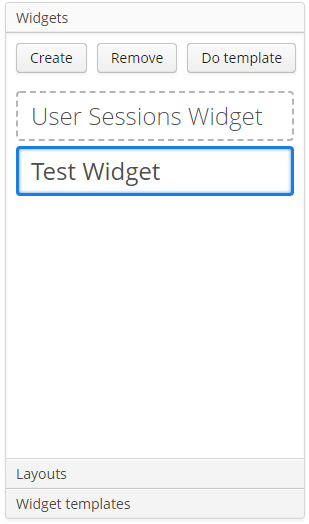
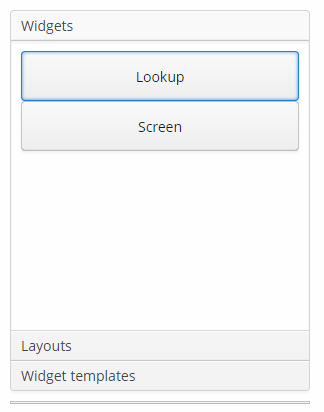
DASH-152 Create component documentation update 3.5. Dashboard Editor (will be updated again after fix of DASH-99)

Changed region(s): [[0.0, 0.0, 0.9903, 0.9903]]

diff --git a/README.ru.md b/README.ru.md
@@ -124,13 +124,17 @@ dependencies {
 - поля дашборда;
 - параметры дашборда;
 - палитра с виджетами и компоновками;
+- структура элементов редактируемого дашборда в виде дерева;
 - холст, где задается размещение элементов дашборда;
 - панель с кнопками.
 
 ### Поля дашборда
 
 - **Title** - название дашборда;
-- **Reference name** - уникальный идетификатор для более удобного поиска в базе данных;
+- **Code** - уникальный идетификатор для более удобного поиска в базе данных;
+- **Refresh period** - период времени в секундах, при котором дашборд будет обновляться;
+- **Assistant bean name** - имя класса вспомогательного Spring-бина, который можно создать для более тонкой настойки дашборда;
+- **Group** - группа дашборда;
 - **Is available for all users** - флаг, определяющий доступ пользователей к дашборду. Если установлено `false`, то просматривать и редактировать дашборд может только пользователь, его создавший. В противном случае, проматривать и редактировать дашборд могут все пользователи.
 
 ### Параметры дашборда
@@ -144,7 +148,7 @@ dependencies {
 
 #### Widgets
 
-Содержит контейнер, в который можно добавлять или удалять произвольный виджет.
+Содержит виджеты **Lookup** и **Screen**. Для того чтобы добавить виджет на холст, перетащите его из палитры, после чего откроется диалоговое окно редактирования виджета.
 Имеется возможность сделать виджет шаблоном. В этом случае он добавляется во вкладку **Widget Templates**. 
 
 ![palette-widgets](img/palette-widgets.png)
@@ -159,7 +163,13 @@ dependencies {
 
 Содержит контейнер, в котором находятся шаблоны виджетов из базы данных.
 
-![palette-layouts](img/palette-wiget-templates.png)
+![palette-widget-templates](img/palette-widget-templates.png)
+
+#### 3.5.3.4. Текущая компоновка
+
+Отображает текущую структуру дашборда в виде дерева. Корневой элемент **Root** присутствует по умолчанию и не может быть удален.
+
+![palette-tree](img/palette-tree.png)
 
 ### Холст
 

diff --git a/README.md b/README.md
@@ -128,13 +128,17 @@ Dashboard Editor contains 5 areas:
 - the dashboard fields;
 - the dashboard parameters;
 - the palette with widgets and layouts;
+- the tree representation of the edited dashboard structure
 - the canvas  where the position of dashboard elements (widgets and layouts) is specified;
 - the buttons panel.
 
 ### 3.5.1. Dashboard Fields
 
-- **Title** - a name of the dashboard;
-- **Reference name** - a unique identifier for a more convenient search in a database;
+- **Title** - the name of the dashboard;
+- **Code** - the unique identifier for a more convenient search in a database;
+- **Refresh period** - the time period in seconds for refresh a dashboard UI;
+- **Assistant bean name** - an optional reference to a Spring bean class that should be used for customizing the dashboard. 
+- **Group** - the dashboard group;
 - **Is available for all users** - a flag which defines the user access to the dashboard. If set to `false`, then only the user who created the dashboard can view and edit it. Otherwise, all users can view and edit the dashboard.
 
 ### 3.5.2. Dashboard Parameters
@@ -147,7 +151,7 @@ It is a container with 3 collapsible tabs. Each tab contains a container with co
 
 #### 3.5.3.1 Widgets
 
-Contains a container in which you can add or exclude any widget. It is possible to make the widget a template (in this case, it is added to the tab **Widget Templates**). 
+Contains **Lookup** and **Screen** widgets. Drag and drop an element from the palette for adding it on the canvas, and the widget editor will be opened in a dialog window. It is possible to make the widget a template (in this case, it is added to the tab **Widget Templates**). 
 
 ![palette-widgets](img/palette-widgets.png)
 
@@ -161,7 +165,13 @@ Contains horizontal, vertical, and grid layouts.
 
 Contains widget templates from a database.
 
-![palette-layouts](img/palette-wiget-templates.png)
+![palette-widget-templates](img/palette-widget-templates.png)
+
+#### 3.5.3.4. Dashboad Layout Structure
+
+Displays the current dashboard structure as a tree. The **Root** element is available by default and cannot be removed.
+
+![palette-tree](img/palette-tree.png)
 
 ### 3.5.4. Canvas
 
